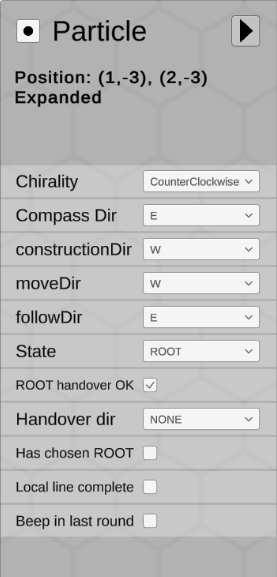
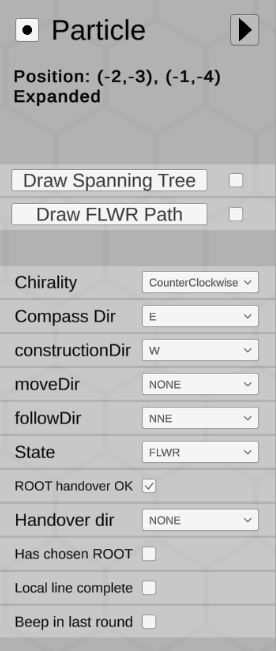
Wrote documentation page for status info methods and added exception handling

Changed region(s): [[0.0, 0.0, 0.9565, 1.0], [0.8116, 0.0, 0.9275, 0.0936], [0.8116, 0.9047, 0.9565, 0.9983]]

diff --git a/AmoebotSim 2.0/Assets/Code/Reflection/AlgorithmManager.cs b/AmoebotSim 2.0/Assets/Code/Reflection/AlgorithmManager.cs
@@ -340,7 +340,14 @@ namespace AS2
             }
             if (idx < 0 || idx >= info.statusInfoMethods.Length)
                 throw new System.ArgumentException("Index " + idx + " is invalid status info method index.");
-            info.statusInfoMethods[idx].Item2.Invoke(null, new object[] { system, selectedParticle });
+            try
+            {
+                info.statusInfoMethods[idx].Item2.Invoke(null, new object[] { system, selectedParticle });
+            }
+            catch (Exception e)
+            {
+                Log.Error("Caught exception while executing status info method: " + e);
+            }
         }
     }
 

diff --git a/Documentation/model_ref/status_info.md b/Documentation/model_ref/status_info.md
@@ -1,5 +1,63 @@
 # Model Reference: Status Info Methods
 
-**TODO**
+For many algorithms, it may be useful to display more information than what can be visualized using particle colors and attribute overlays.
+Especially information that goes beyond the local scope of a single particle (like a whole spanning tree, for example) can be difficult to show using just the particles' own code.
+Additionally, it might be helpful to display a custom state summary for a specific particle that is selected through the UI.
+The *status info method* feature provides a simple solution for all of these use cases, making your algorithms both easier to develop and easier to present and explain.
 
 
+### Creating Custom Status Info Methods
+
+A status info method is a *static* method that has the following properties:
+- The method is defined by a [`ParticleAlgorithm`][1] subclass, i.e., it must belong to an algorithm
+- It must have exactly two parameters: A [`ParticleSystem`][2], providing access to the entire system of particles, and a [`Particle`][3] to access the currently selected particle (which will be `null` if no particle is selected)
+- It must be marked with the [`StatusInfoAttribute`][4] attribute so that the simulator recognizes the method and displays a button for it
+
+The following example shows the pattern for creating a status info method:
+```csharp
+public class MyAlgorithm : ParticleAlgorithm {
+    ...
+    [StatusInfo("Button Label", "Tooltip text", false)]
+    public static void MyStatusInfo(AS2.Sim.ParticleSystem system, Particle selectedParticle) {
+        // Implement custom status information here
+        // Use the AS2.UI.LineDrawer to draw lines and arrows
+        // Print log messages
+        // Iterate over all particles using system.particles
+        // Find particles at given positions using system.TryGetParticleAt(Vector2Int, out Particle)
+        // Access the selected particle's state as follows:
+        MyAlgorithm algo = (MyAlgorithm)selectedParticle.algorithm;
+    }
+    ...
+}
+```
+
+<img src="~/images/particle_panel_sim.png" alt="Particle Panel with status info buttons in Simulation Mode" title="Particle Panel with status info buttons in Simulation Mode" width="200" align="right"/>
+
+The [`StatusInfoAttribute`][4] attribute (where the `Attribute` can be omitted) has three parameters, two of which are optional.
+The first parameter is the label that will be used for the button in the Particle Panel, as can be seen on the right.
+The second parameter defines the tooltip message that will be displayed when hovering over the button.
+By default, there is no tooltip.
+And the third parameter is a `bool` that specifies whether auto-calling is initially enabled for the info method.
+A status info method for which auto-calling is enabled will be called automatically every time the simulation round changes.
+The attribute parameter only defines the initial behavior, you can change it in the Particle Panel by clicking the toggle next to the button at any time.
+
+Inside the status info method, there are several ways to access and display information.
+The second parameter of the method is the currently selected particle.
+If no particle is selected, it will be `null`.
+To access the particle's attributes, you have to typecast its [`algorithm`][6] member to your algorithm class, as demonstrated in the code example above.
+The same method can be used to access any particle's attributes.
+The particles can be accessed using the [`ParticleSystem.particles`][7] list or, for example, the [`ParticleSystem.TryGetParticleAt(Vector2Int pos, out Particle p)`][8] method.
+
+You can use the [line drawer utility](collisions.md) to draw lines and arrows in the particle system.
+For more detailed information, you can use the [`Log`][5] system and print text messages with information on the whole system or only the selected particle.
+
+
+
+[1]: xref:AS2.Sim.ParticleAlgorithm
+[2]: xref:AS2.Sim.ParticleSystem
+[3]: xref:AS2.Sim.Particle
+[4]: xref:AS2.StatusInfoAttribute
+[5]: xref:AS2.Log
+[6]: xref:AS2.Sim.Particle.algorithm
+[7]: xref:AS2.Sim.ParticleSystem.particles
+[8]: xref:AS2.Sim.ParticleSystem.TryGetParticleAt(Vector2Int,AS2.Visuals.IParticleState@)

diff --git a/Documentation/model_ref/collisions.md b/Documentation/model_ref/collisions.md
@@ -16,8 +16,9 @@ The [`LineDrawer`][1] is a singleton script attached to the `LineDrawer` GameObj
 It provides simple methods for drawing lines and arrows in arbitrary colors and displaying them on top of the particle system, optionally for a limited time.
 The [`AddLine(Vector2 start, Vector2 end, Color color, bool arrow, float width, float arrowWidth)`][2] method creates a new line between the global grid coordinates `start` and `end`, rendered in the given `color`.
 If the `arrow` parameter is `true`, the line will end with an arrow tip.
-The `width` and `arrowWidth` parameters can be used to scale the width of the line and the width of the arrow tip, respectively
-By calling the [`SetTimer(float duration)`][3] method, a timer of `duration` seconds can be set.
+The `width` and `arrowWidth` parameters can be used to scale the width of the line and the width of the arrow tip, respectively.
+Call the [`Clear()`][3] method to remove the lines again.
+By calling the [`SetTimer(float duration)`][4] method, you can set a timer of `duration` seconds.
 When the specified time expires, all current lines and arrows will be removed.
 
 This drawing utility can be useful for visualizing certain structures (like the goal shape of a shape formation algorithm) in Initialization Mode, or it can be used by [status info methods](status_info.md) to display additional information at runtime (as demonstrated by the line formation algorithm, which uses the line drawer to draw the edges of the current spanning tree).
@@ -25,5 +26,6 @@ This drawing utility can be useful for visualizing certain structures (like the 
 
 
 [1]: xref:AS2.UI.LineDrawer
-[2]: xref:AS2.UI.LineDrawer.AddLine(Vector2,Vector2,Color,System.Boolean)
-[3]: xref:AS2.UI.LineDrawer.SetTimer(System.Single)
+[2]: xref:AS2.UI.LineDrawer.AddLine(Vector2,Vector2,Color,System.Boolean,System.Single,System.Single)
+[3]: xref:AS2.UI.LineDrawer.Clear
+[4]: xref:AS2.UI.LineDrawer.SetTimer(System.Single)

diff --git a/Documentation/user_guide/usage/sim.md b/Documentation/user_guide/usage/sim.md
@@ -183,13 +183,19 @@ Press this button to store the current settings in the [configuration file](conf
 ## Particle Panel
 
 The Particle Panel is available by clicking a particle with the Selection tool activated, both in Simulation and Init Mode.
-The difference between the two modes is that the panel now displays the [*particle attributes*](~/model_ref/attrs.md) instead of the particle's initialization parameters.
+The difference between the two modes is that the panel now displays the [*particle attributes*](~/model_ref/attrs.md) instead of the particle's initialization parameters, and it shows the algorithm's status info buttons (see below).
 Note that although the same algorithm as in the Init Mode example is selected (Line Formation), the Particle Panel displays different content.
 
 The only content that is displayed in both modes are the chirality and compass direction, which are neither initialization parameters nor particle attributes.
 In Simulation Mode, their values cannot be changed anymore.
 The attribute values as well as the Anchor state (the little button left of the "Particle" text) can only be edited when the simulation state is in the latest round of the history.
 If you want to change a particle's state in an earlier round, you will need to cut off the rest of the history.
+
+Above the attributes, you can now find the *status info buttons* of the algorithm.
+Pressing these buttons will run some method defined by the current algorithm that usually displays some additional information, like the spanning tree in the line formation algorithm.
+The result may depend on the currently selected particle.
+If the toggle next to a status info button is active, the corresponding method will be called automatically whenever the round changes.
+You can read more about status info methods on their [model reference page](~/model_ref/status_info.md).
 
 
 ## Hotkeys
